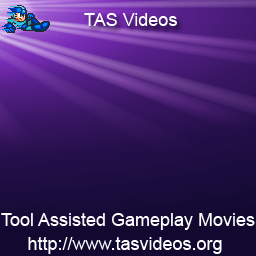
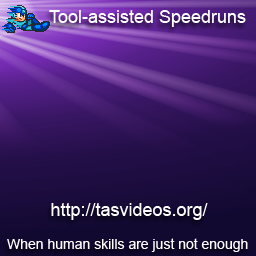
0.94 - streamline

Changed region(s): [[0.0, 0.7812, 1.0, 1.0], [0.1875, 0.0312, 0.9688, 0.125]]

diff --git a/plugin.videos.tas/default.py b/plugin.videos.tas/default.py
@@ -7,11 +7,11 @@ from TasAPI import common as common
 from TasAPI import cache as cache
 
 # plugin constants
-__plugin__ = "Tool Assisted Speedruns"
+__plugin__ = "Tool-assisted Speedruns"
 __author__ = "Insayne (Code) & HannaK (Graphics)"
 __url__ = "http://code.google.com/p/xbmc-plugin-video-tas/"
 __svn_url__ = "https://xbmc-plugin-video-tas.googlecode.com/svn/trunk/plugin.videos.tas/"
-__version__ = "0.93"
+__version__ = "0.94"
 __svn_revision__ = "$Revision$"
 __XBMC_Revision__ = xbmc.getInfoLabel('System.BuildVersion')
 __settings__ = xbmcaddon.Addon(id='plugin.video.tas')
